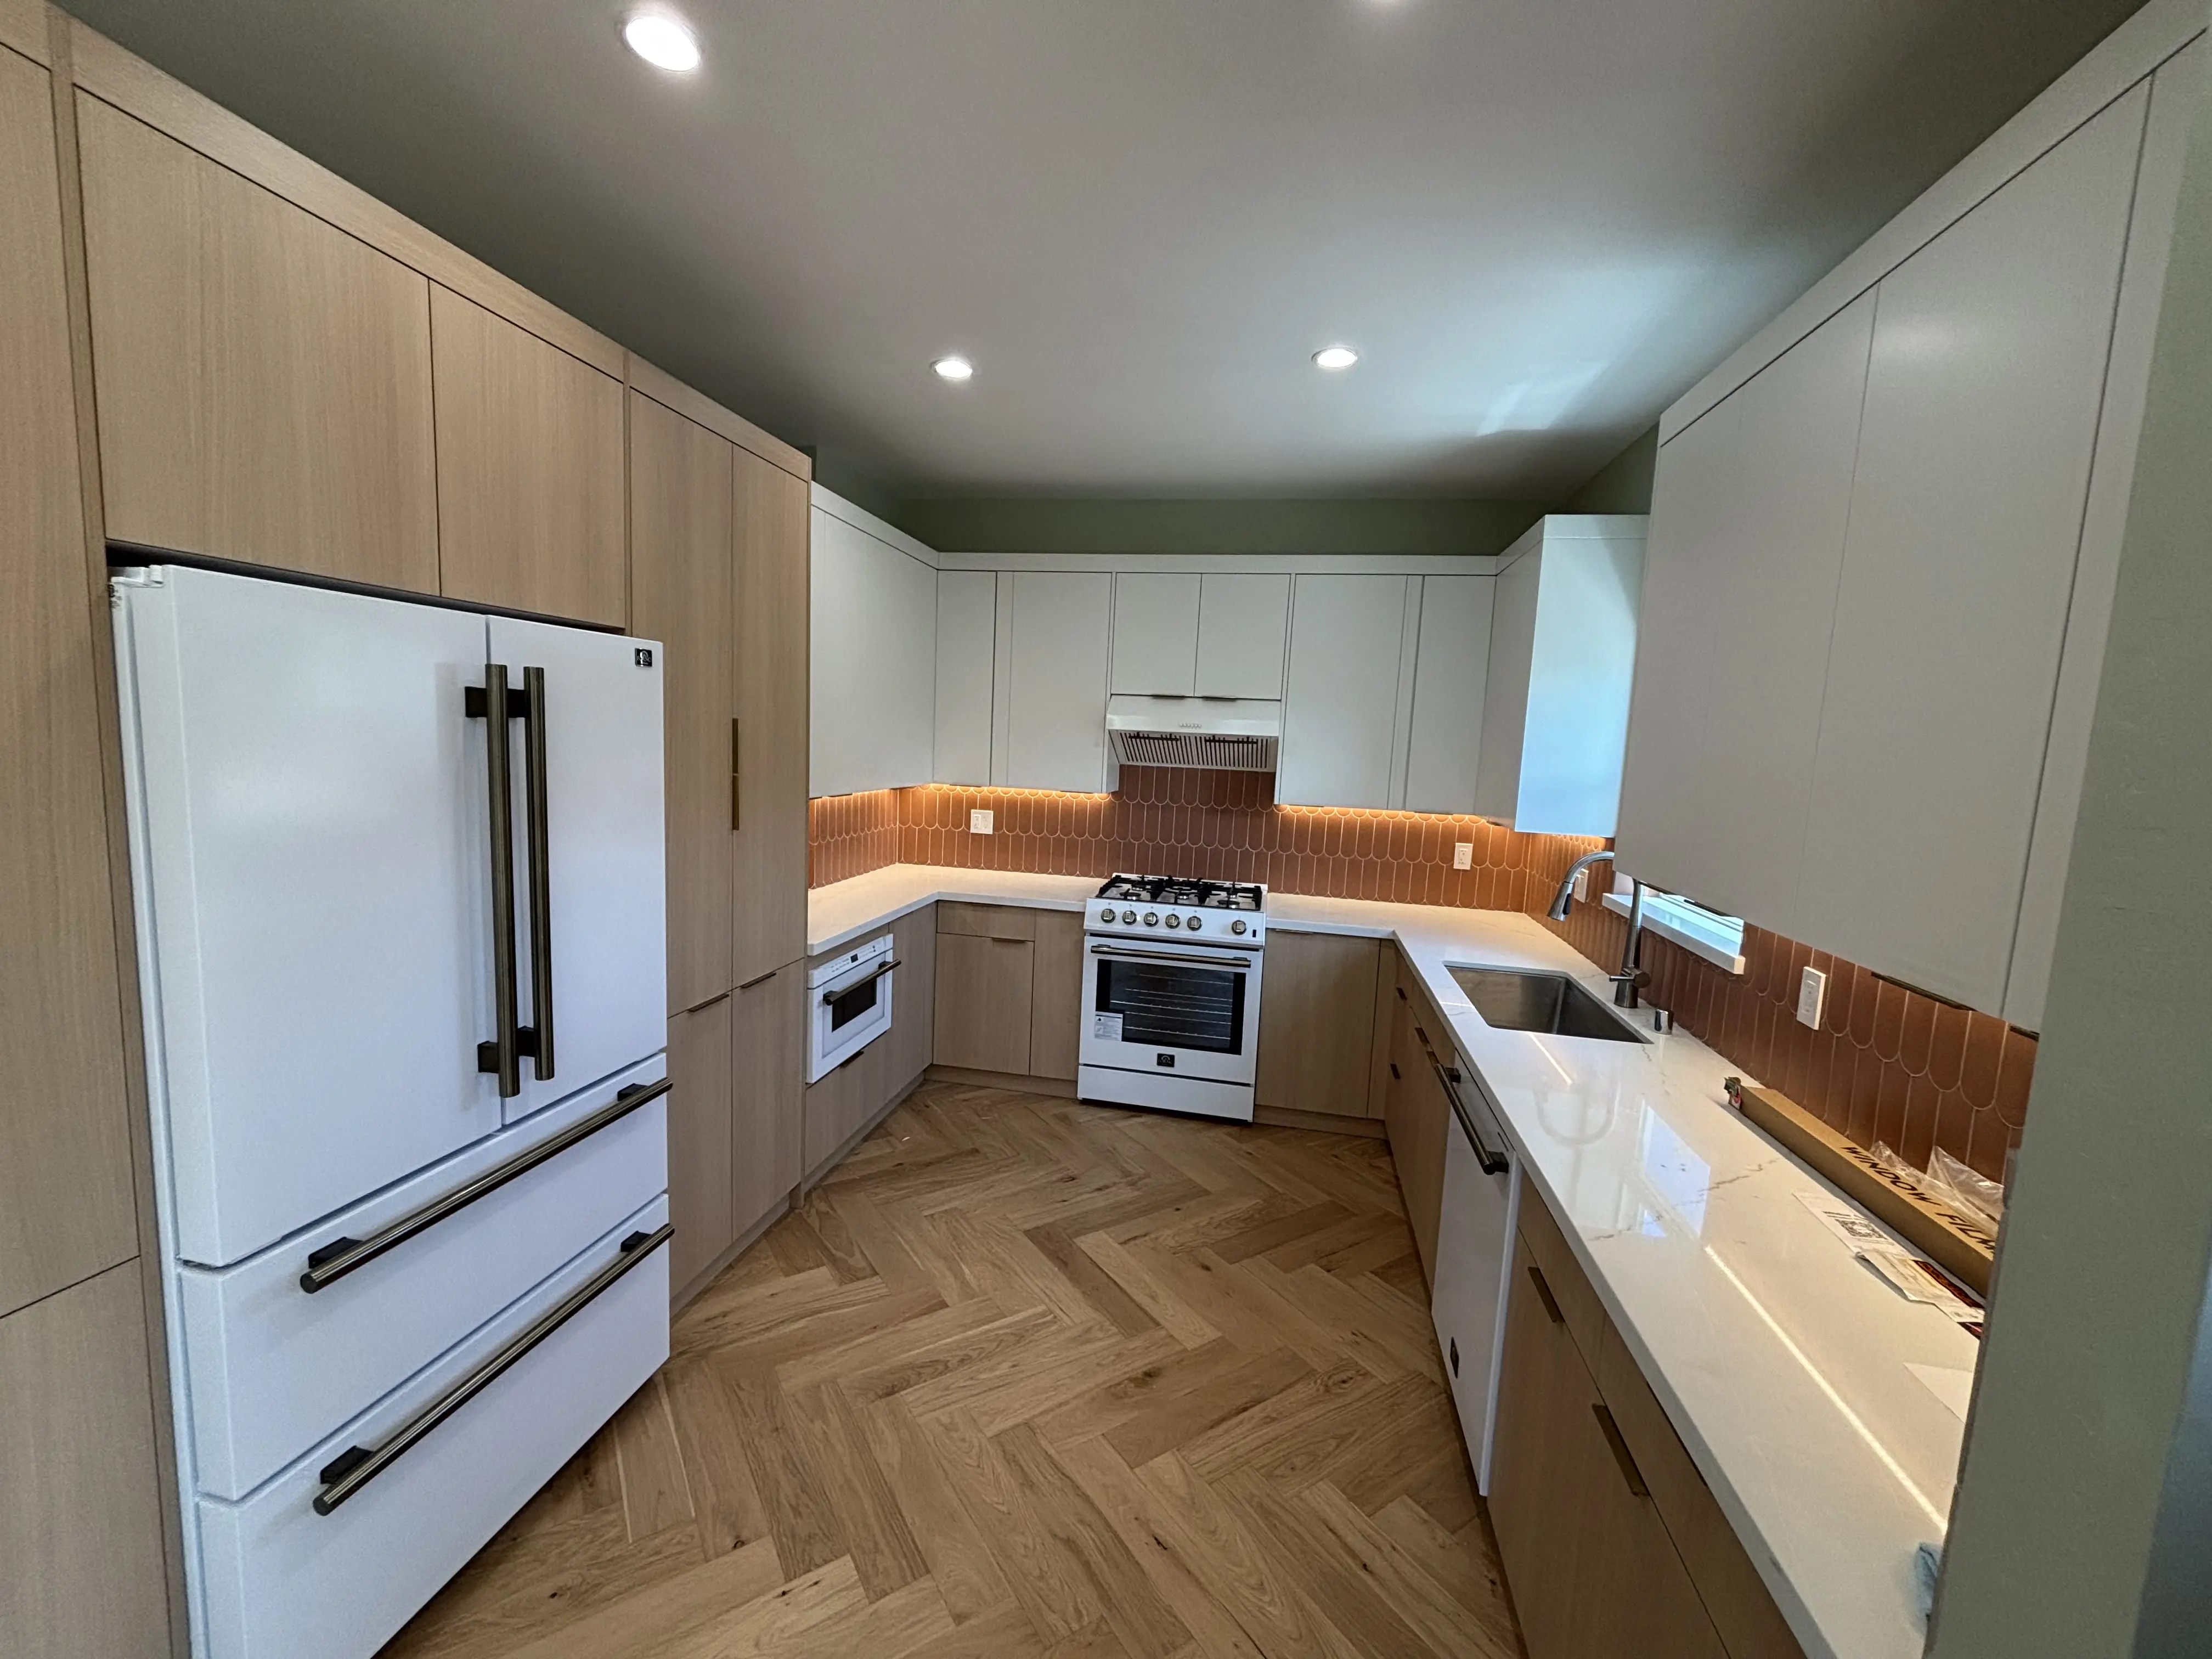
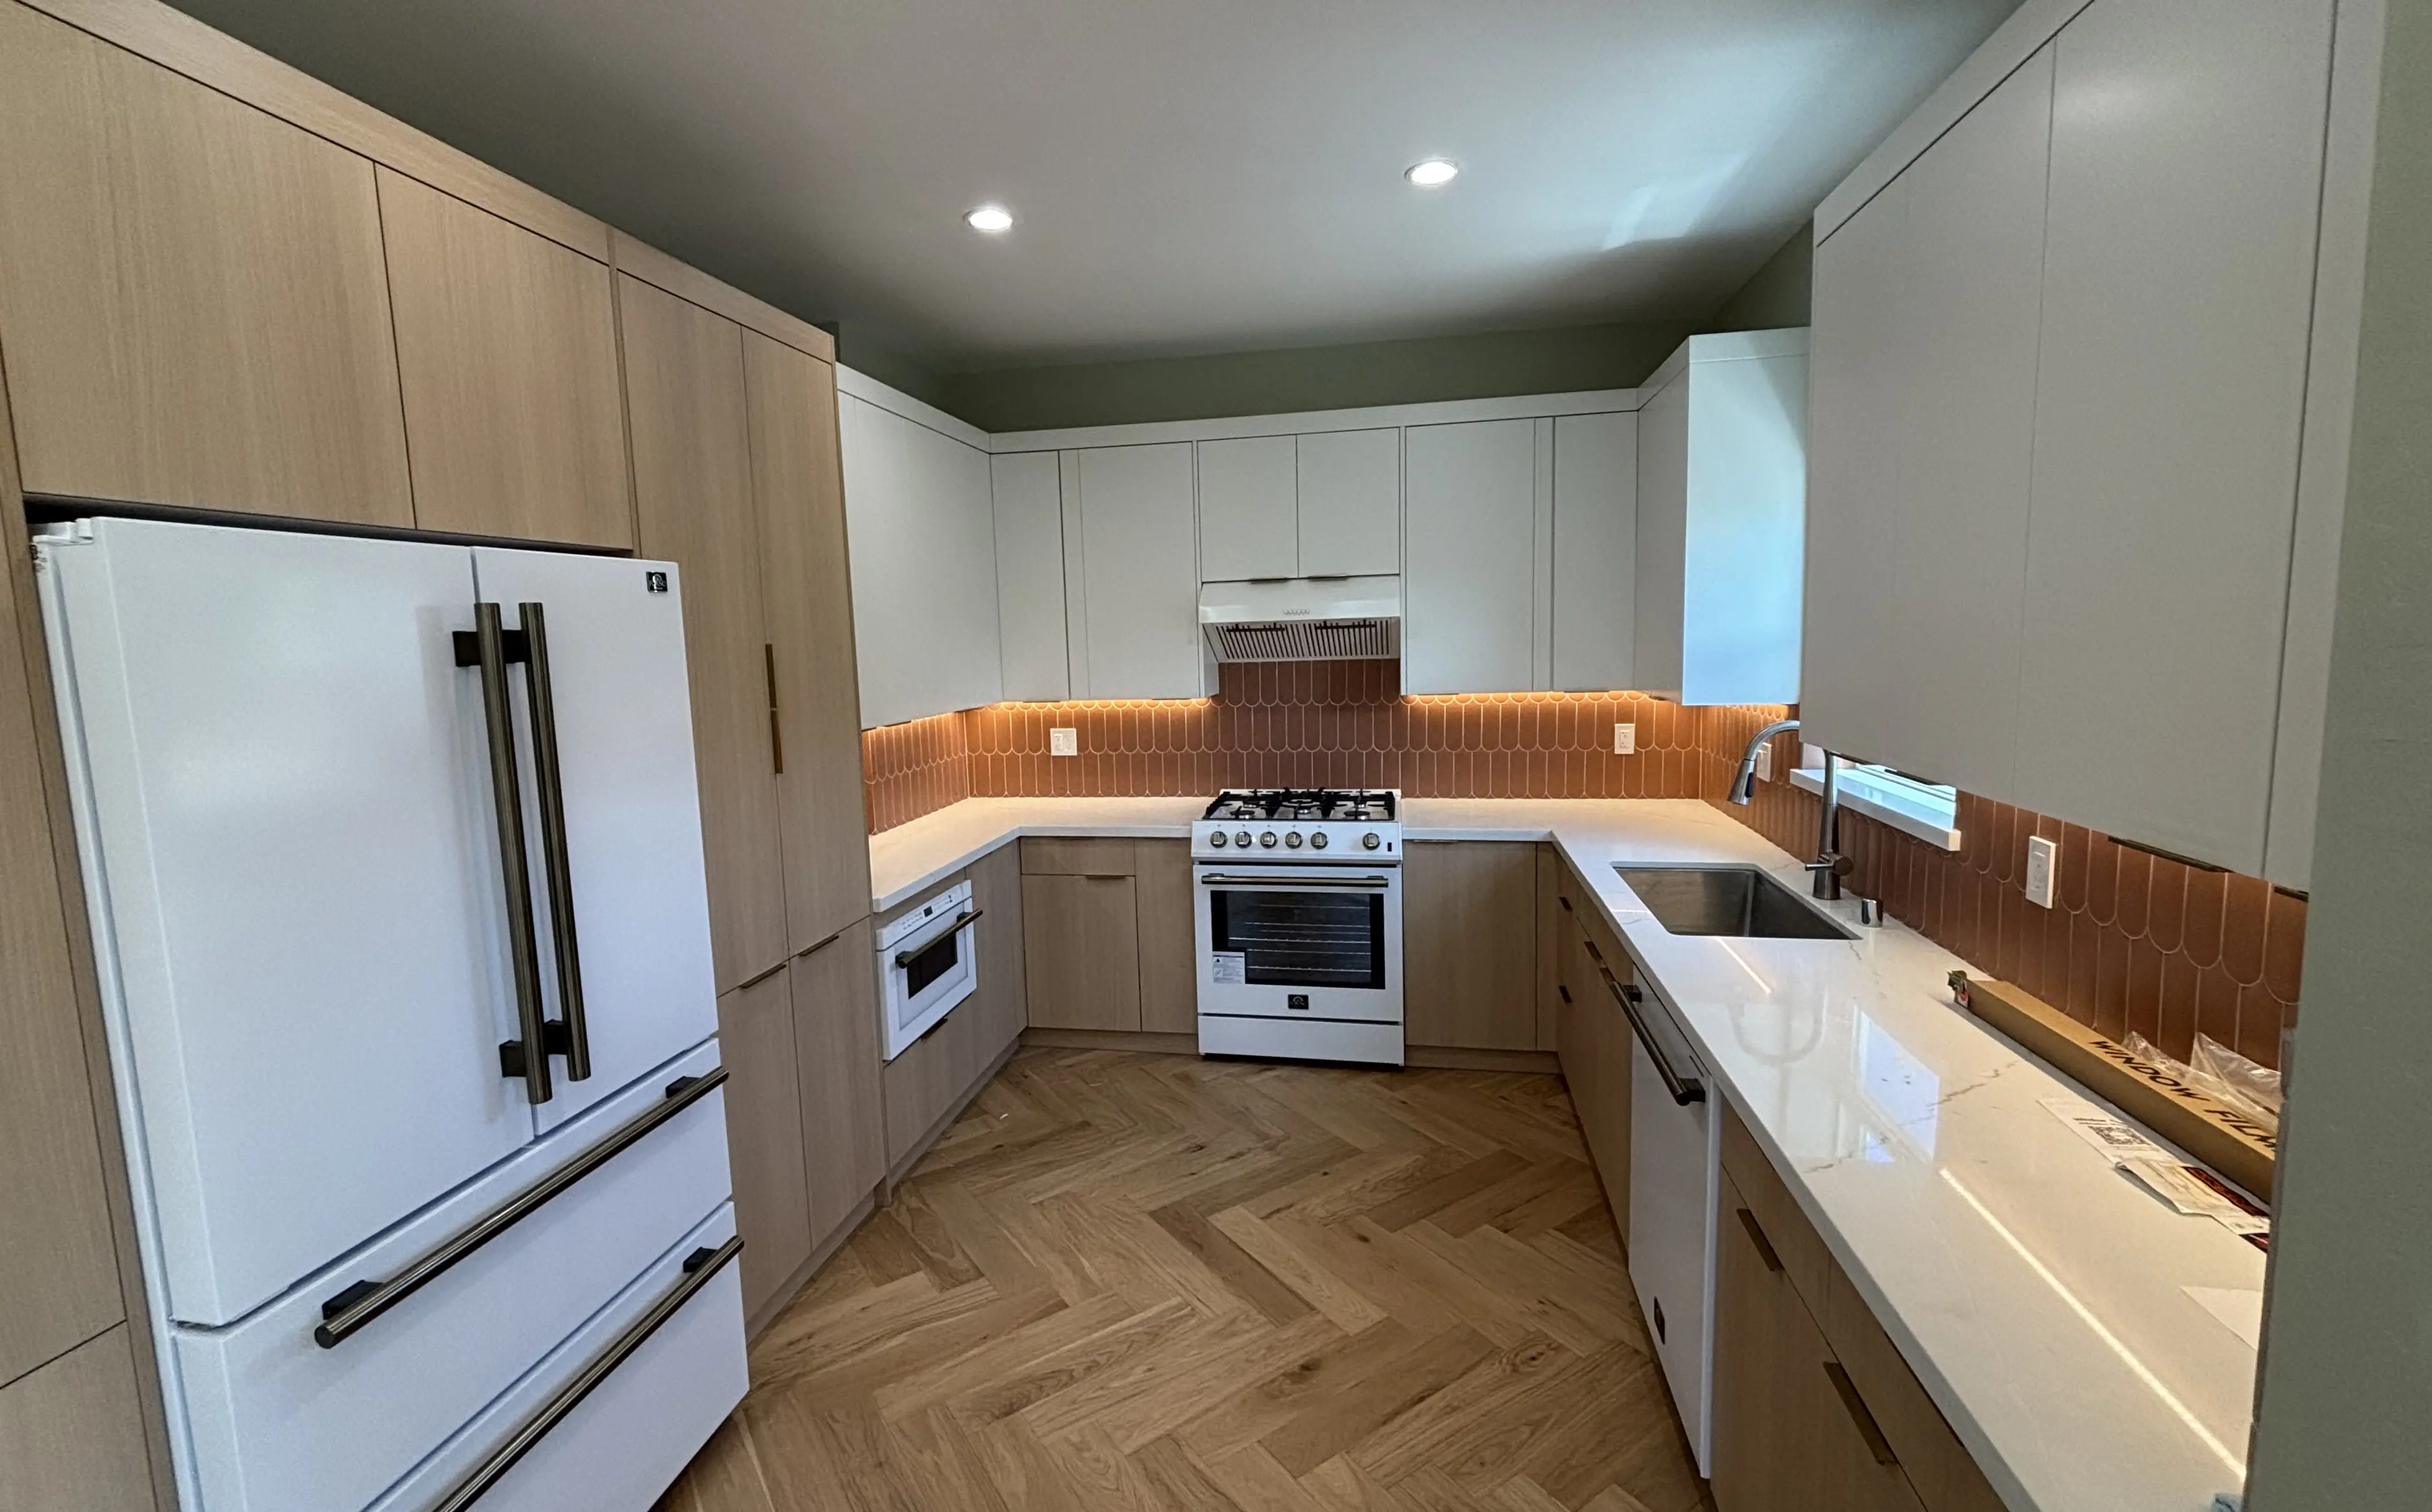
Our Work hero: Peggy C kitchen photo, reduced overlay opacity

diff --git a/our-work.html b/our-work.html
@@ -24,7 +24,7 @@
   .nav-cta { background: var(--black); color: white !important; padding: 12px 22px !important; border-radius: 3px; }
   .nav-cta:hover { background: var(--gold) !important; color: var(--black) !important; }
   .page-hero { background: var(--black); min-height: 680px; display: flex; align-items: center; justify-content: center; overflow: hidden; text-align: center; position: relative; overflow: hidden; }
-  .page-hero::before { content: ''; position: absolute; inset: 0; background: url('https://images.unsplash.com/photo-1558618666-fcd25c85cd64?w=1400&q=60') center/cover; opacity: 0.2; }
+  .page-hero::before { content: ''; position: absolute; inset: 0; background: url('peggy-c-kitchen.webp') center/cover; opacity: 0.9; }
   .page-hero-content { position: relative; z-index: 1; }
   .page-hero h1 { color: white; margin-bottom: 15px; }
   .page-hero p { color: rgba(255,255,255,0.8); font-size: 18px; max-width: 600px; margin: 0 auto; }